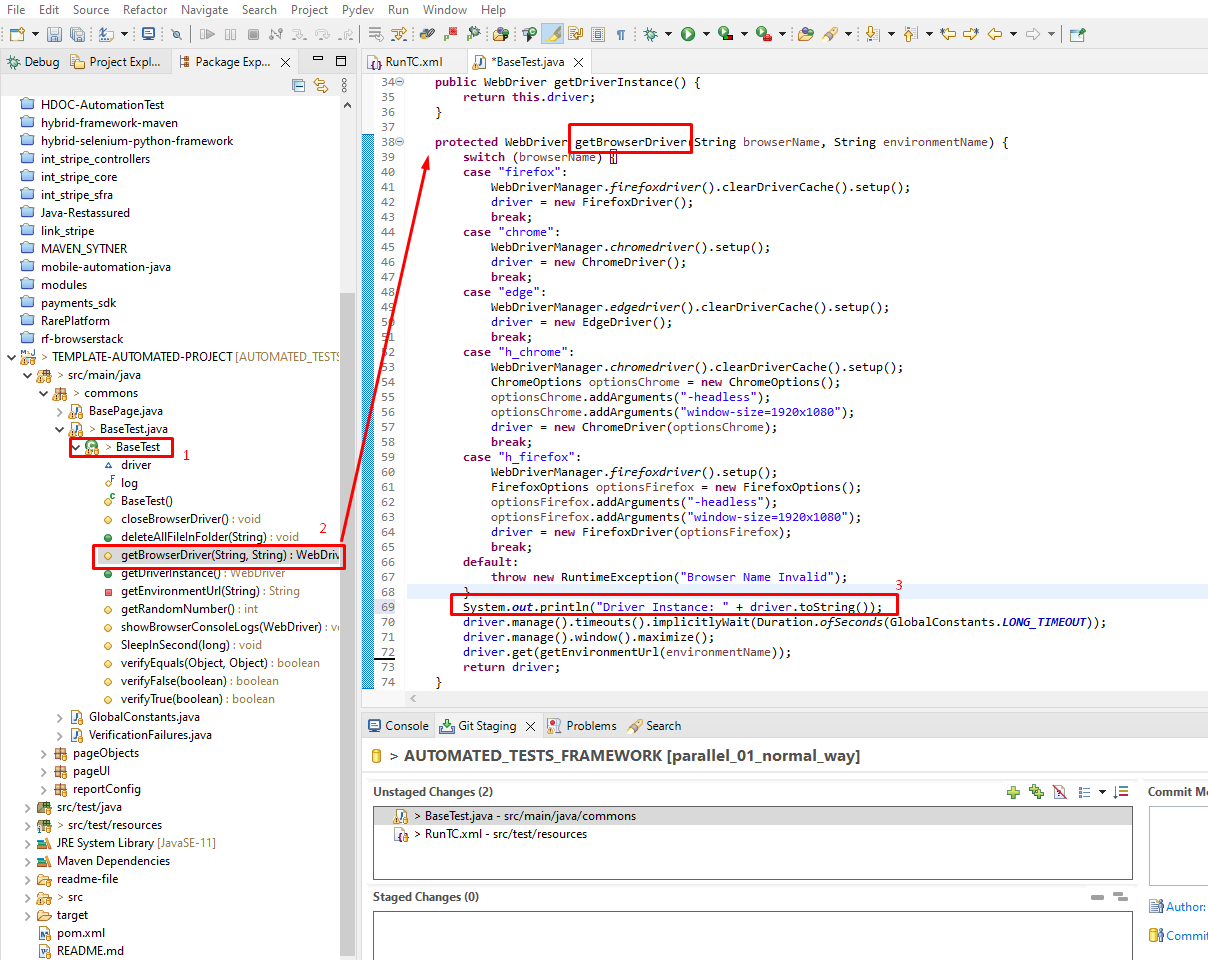
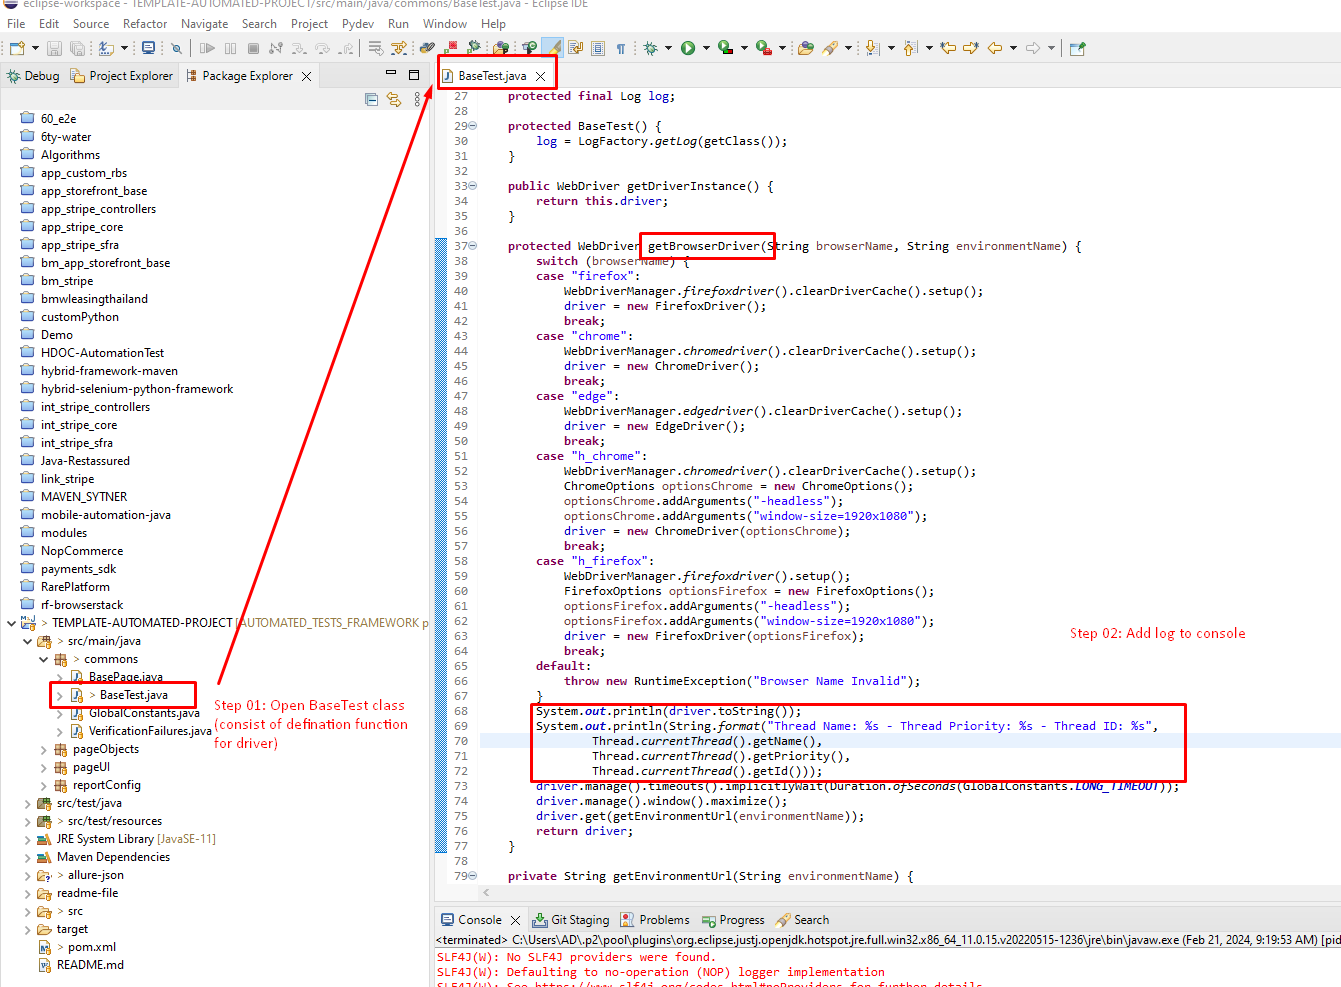
Update for WebDriverManager 5.6.4

Changed region(s): [[0.0, 0.0, 1.0, 1.0], [0.7045, 0.125, 0.827, 0.1562], [0.7657, 0.2188, 0.7964, 0.25]]

diff --git a/src/main/java/commons/BaseTest.java b/src/main/java/commons/BaseTest.java
@@ -41,7 +41,7 @@ public class BaseTest {
 			driver = new FirefoxDriver();
 			break;
 		case "chrome":
-			WebDriverManager.chromedriver().setup();
+			WebDriverManager.chromedriver().clearDriverCache().setup();
 			driver = new ChromeDriver();
 			break;
 		case "edge":
@@ -65,7 +65,11 @@ public class BaseTest {
 		default:
 			throw new RuntimeException("Browser Name Invalid");
 		}
-		System.out.println("Driver Instance: " + driver.toString());
+		System.out.println(driver.toString());
+		System.out.println(String.format("Thread Name: %s - Thread Priority: %s - Thread ID: %s", 
+				Thread.currentThread().getName(), 
+				Thread.currentThread().getPriority(), 
+				Thread.currentThread().getId()));
 		driver.manage().timeouts().implicitlyWait(Duration.ofSeconds(GlobalConstants.LONG_TIMEOUT));
 		driver.manage().window().maximize();
 		driver.get(getEnvironmentUrl(environmentName));
